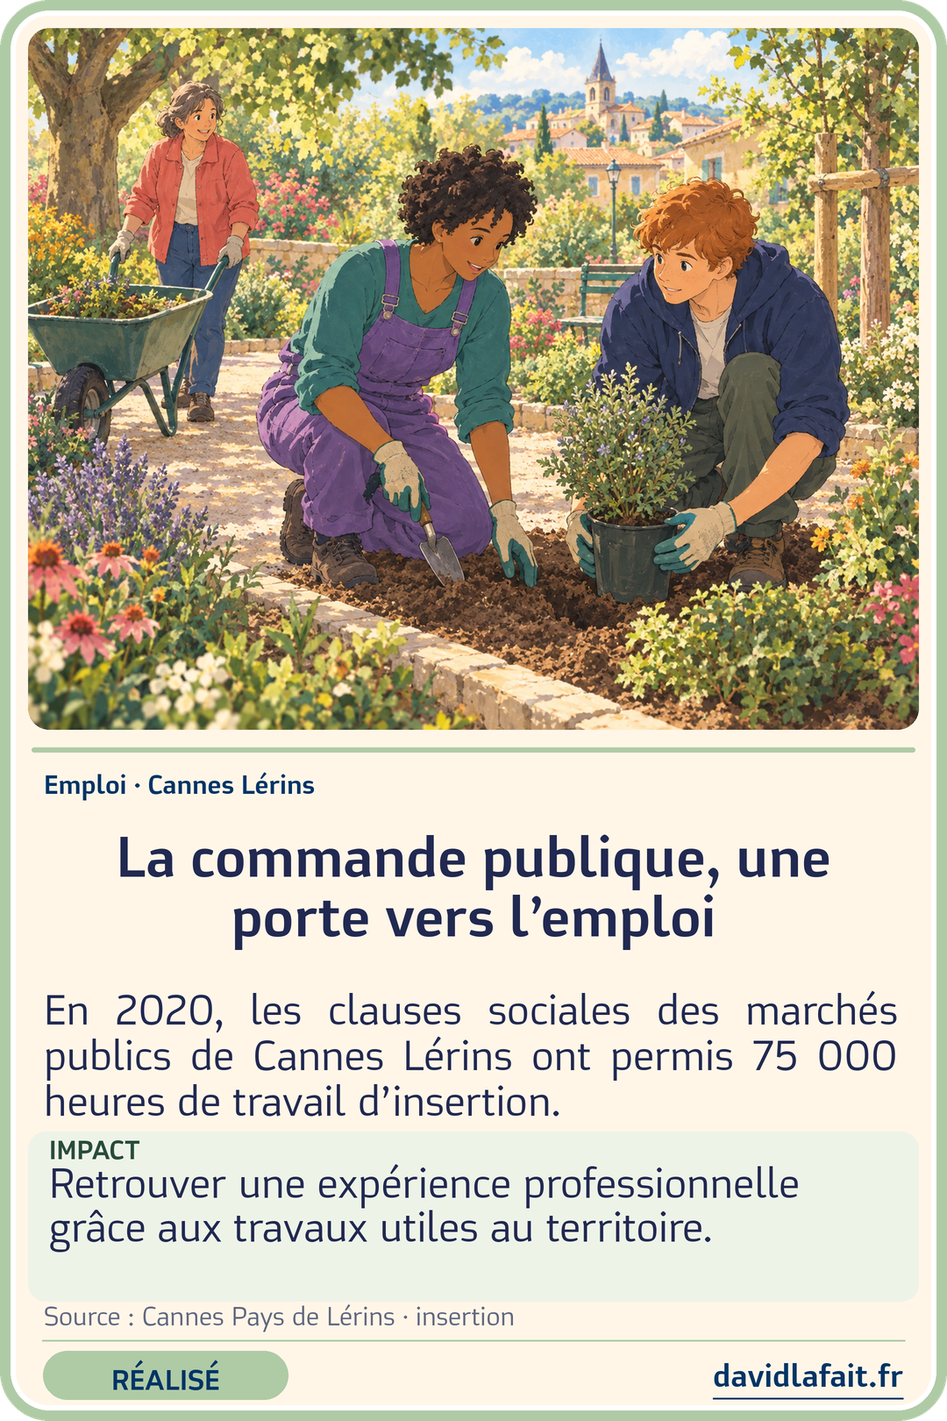
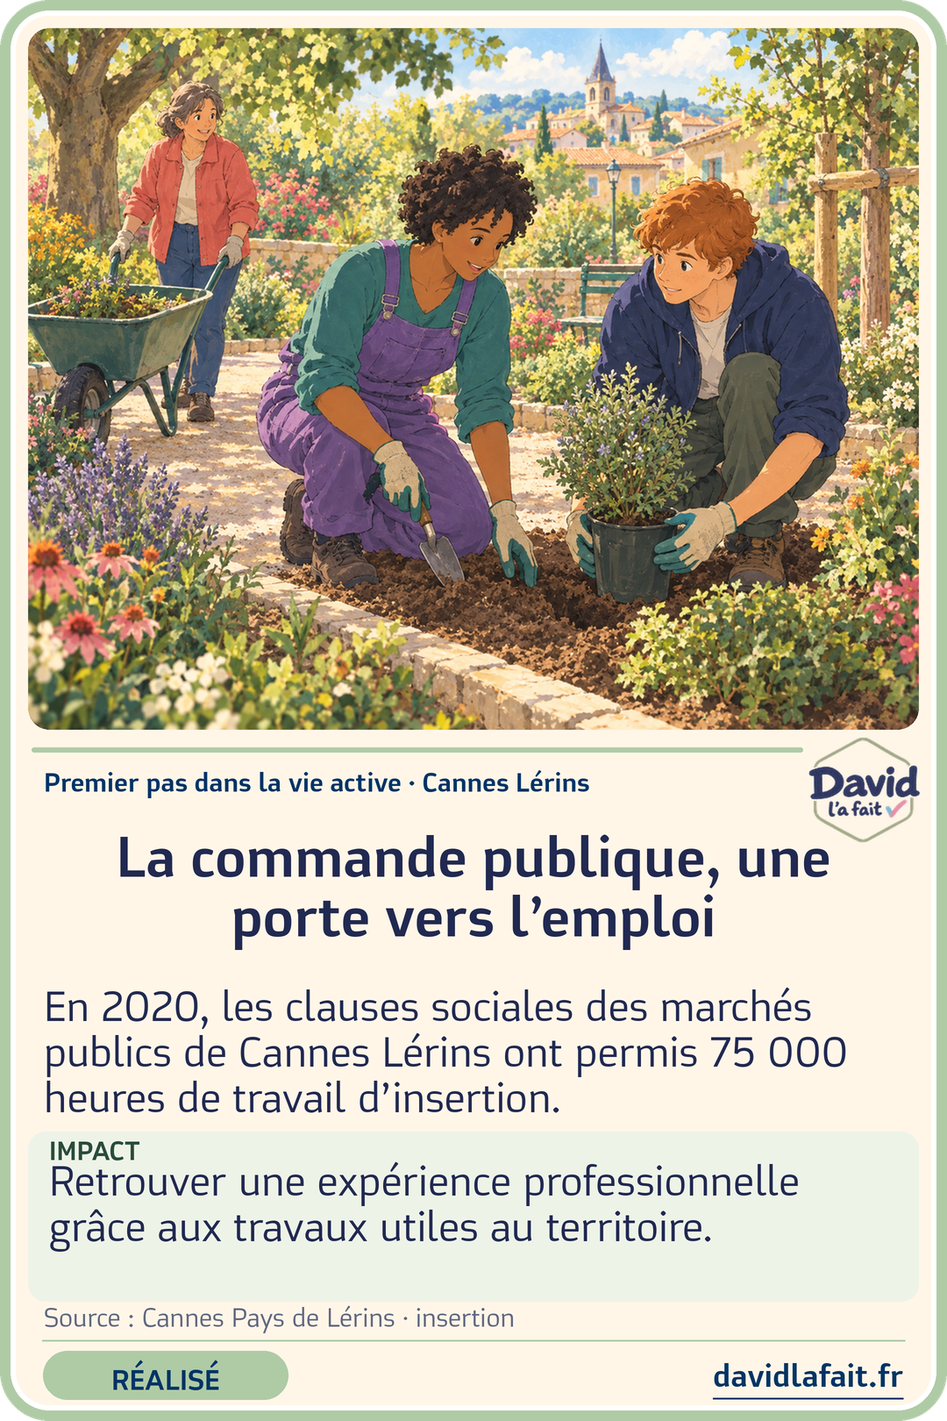
Thématique Premier pas dans la vie active : 7 cartes, vignette, révision 20261122-premierpas

diff --git a/thematiques/premier-pas-vie-active.html b/thematiques/premier-pas-vie-active.html
@@ -1,0 +1,53 @@
+<!doctype html>
+<html lang="fr">
+<head>
+  <meta charset="utf-8">
+  <meta name="viewport" content="width=device-width, initial-scale=1">
+  <meta name="theme-color" content="#f0dfdc">
+  <title>Premier pas dans la vie active | David l’a fait</title>
+  <meta name="description" content="Trouver sa place dans la vie active ne commence pas toujours par un entretien d’embauche. Renouer le contact, identifier ses compétences, construire…">
+  <link rel="canonical" href="https://www.davidlafait.fr/thematiques/premier-pas-vie-active.html">
+  <meta property="og:type" content="website">
+  <meta property="og:title" content="Premier pas dans la vie active | David l’a fait">
+  <meta property="og:description" content="Trouver sa place dans la vie active ne commence pas toujours par un entretien d’embauche. Renouer le contact, identifier ses compétences, construire…">
+  <meta property="og:url" content="https://www.davidlafait.fr/thematiques/premier-pas-vie-active.html">
+  <meta property="og:image" content="https://www.davidlafait.fr/assets/img/og/premier-pas-vie-active.jpg">
+  <meta property="og:image:width" content="1200"><meta property="og:image:height" content="630">
+  <meta name="twitter:card" content="summary_large_image">
+  <link rel="icon" href="../assets/img/favicon.ico" sizes="any"><link rel="icon" type="image/png" sizes="32x32" href="../assets/img/favicon-32.png"><link rel="apple-touch-icon" href="../assets/img/apple-touch-icon.png">
+  <link rel="stylesheet" href="../assets/css/base.css">
+  <link rel="stylesheet" href="../assets/css/style.css?v=20261122-premierpas">
+  <script>window.va = window.va || function () { (window.vaq = window.vaq || []).push(arguments); };</script>
+  <script defer src="/_vercel/insights/script.js"></script>
+  <script defer src="../assets/js/cartes.js?v=20261122-premierpas"></script>
+  <script type="application/ld+json">{"@context": "https://schema.org", "@type": "CollectionPage", "name": "Premier pas dans la vie active", "description": "Trouver sa place dans la vie active ne commence pas toujours par un entretien d’embauche. Renouer le contact, identifier ses compétences, construire un projet puis accéder à une formation ou à une expérience professionnelle : ces dispositifs répondent à différentes étapes du parcours, notamment pour les jeunes éloignés de l’emploi.", "url": "https://www.davidlafait.fr/thematiques/premier-pas-vie-active.html", "isPartOf": {"@type": "WebSite", "name": "David l’a fait", "url": "https://www.davidlafait.fr/"}}</script>
+</head>
+<body>
+  <a class="skip-link" href="#main">Aller au contenu</a>
+  <div class="site-shell">
+    <header class="header">
+      <div class="header-top">
+        <a class="wordmark" href="../index.html#/" aria-label="David l’a fait, accueil"><img src="../assets/img/logo-david-la-fait.png" width="104" height="104" alt=""><span class="wordmark-text"><span>David</span> l’a fait</span></a>
+        <nav aria-label="Navigation principale"><a href="../index.html#/" data-nav="home" aria-current="page">Les thématiques</a><a href="../index.html#/fiches" data-nav="fiches">Les cartes</a><a href="../index.html#/a-propos" data-nav="about">À propos</a></nav>
+      </div>
+      <p class="independence">Initiative indépendante · Non officielle</p>
+    </header>
+    <main id="main" tabindex="-1">
+      <a class="back" href="../index.html#/">← Retour aux thématiques</a>
+      <section class="theme-intro">
+        <div class="theme-intro-text"><p class="eyebrow">Thématique · 7 cartes</p><h1 class="page-title">Premier pas dans la vie active</h1><p class="fil">Trouver sa place dans la vie active ne commence pas toujours par un entretien d’embauche. Renouer le contact, identifier ses compétences, construire un projet puis accéder à une formation ou à une expérience professionnelle : ces dispositifs répondent à différentes étapes du parcours, notamment pour les jeunes éloignés de l’emploi.</p><p class="fil-note">Chaque carte renvoie à sa source.</p></div>
+        <img class="david" src="../assets/img/david-lisnard.webp" width="440" height="499" alt="David Lisnard">
+      </section>
+      <div class="filters status-filters static-filters" role="group" aria-label="Filtrer par statut"><button type="button" class="filter" data-filter="all" aria-pressed="true">Toutes <span class="count">· 7</span></button><button type="button" class="filter st realise" data-filter="realise" aria-pressed="false">RÉALISÉ <span class="count">· 5</span></button><button type="button" class="filter st en-cours" data-filter="en-cours" aria-pressed="false">EN COURS <span class="count">· 0</span></button><button type="button" class="filter st proposition" data-filter="proposition" aria-pressed="false">PROPOSITION <span class="count">· 2</span></button><span class="legend-caption">Un fait établi, une étape en cours ou une mesure envisagée.</span></div>
+      <div class="cards-grid"><article class="fiche" data-status="realise" aria-label="Du jeu vidéo à un projet professionnel"><figure class="card-visual"><img src="../assets/cards/david-la-fait-fiche-gaming-insertion.webp?v=20261122-premierpas" alt="Du jeu vidéo à un projet professionnel. Statut : RÉALISÉ." width="1080" height="1620" loading="eager"></figure><div class="card-actions"><a class="download" href="../assets/cards/david-la-fait-fiche-gaming-insertion.png?v=20261122-premierpas" target="_blank" rel="noopener" download="david-la-fait-fiche-gaming-insertion.png"><svg viewBox="0 0 24 24" fill="none" stroke="currentColor" stroke-width="1.8" aria-hidden="true"><path d="M12 3v12m-5-5 5 5 5-5M4 17v4h16v-4"/></svg>Télécharger</a><a class="source-link" href="https://cannespaysdelerins.fr/index.php/nouvelle-frayere/" target="_blank" rel="noopener noreferrer">Voir la source ↗</a></div></article><article class="fiche" data-status="realise" aria-label="Un coup de pouce pour le permis, contre un engagement utile"><figure class="card-visual"><img src="../assets/cards/david-la-fait-fiche-bourse-permis.webp?v=20261122-premierpas" alt="Un coup de pouce pour le permis, contre un engagement utile. Statut : RÉALISÉ." width="1080" height="1620" loading="eager"></figure><div class="card-actions"><a class="download" href="../assets/cards/david-la-fait-fiche-bourse-permis.png?v=20261122-premierpas" target="_blank" rel="noopener" download="david-la-fait-fiche-bourse-permis.png"><svg viewBox="0 0 24 24" fill="none" stroke="currentColor" stroke-width="1.8" aria-hidden="true"><path d="M12 3v12m-5-5 5 5 5-5M4 17v4h16v-4"/></svg>Télécharger</a><a class="source-link" href="https://www.unenouvelleenergie.fr/bourse-au-permis-un-soutien-precieux-pour-les-jeunes-cannois/" target="_blank" rel="noopener noreferrer">Voir la source ↗</a></div></article><article class="fiche" data-status="realise" aria-label="Un accompagnement qui débouche sur l’emploi"><figure class="card-visual"><img src="../assets/cards/david-la-fait-fiche-mission-locale-emploi.webp?v=20261122-premierpas" alt="Un accompagnement qui débouche sur l’emploi. Statut : RÉALISÉ." width="1080" height="1620" loading="lazy"></figure><div class="card-actions"><a class="download" href="../assets/cards/david-la-fait-fiche-mission-locale-emploi.png?v=20261122-premierpas" target="_blank" rel="noopener" download="david-la-fait-fiche-mission-locale-emploi.png"><svg viewBox="0 0 24 24" fill="none" stroke="currentColor" stroke-width="1.8" aria-hidden="true"><path d="M12 3v12m-5-5 5 5 5-5M4 17v4h16v-4"/></svg>Télécharger</a><a class="source-link" href="https://www.calameo.com/books/007975680d7f0e76871e0" target="_blank" rel="noopener noreferrer">Voir la source ↗</a></div></article><article class="fiche" data-status="realise" aria-label="Un salon pour décrocher son premier job d’été"><figure class="card-visual"><img src="../assets/cards/david-la-fait-fiche-jobs-ete.webp?v=20261122-premierpas" alt="Un salon pour décrocher son premier job d’été. Statut : RÉALISÉ." width="1080" height="1620" loading="lazy"></figure><div class="card-actions"><a class="download" href="../assets/cards/david-la-fait-fiche-jobs-ete.png?v=20261122-premierpas" target="_blank" rel="noopener" download="david-la-fait-fiche-jobs-ete.png"><svg viewBox="0 0 24 24" fill="none" stroke="currentColor" stroke-width="1.8" aria-hidden="true"><path d="M12 3v12m-5-5 5 5 5-5M4 17v4h16v-4"/></svg>Télécharger</a><a class="source-link" href="https://www.cannes.com/fr/index/cannes-soleil/grands-articles/n-270-mai-2026/jobs-d-ete-la-mairie-de-cannes-mobilisee-pour-l-emploi-des-jeunes.html" target="_blank" rel="noopener noreferrer">Voir la source ↗</a></div></article><article class="fiche" data-status="realise" aria-label="La commande publique, une porte vers l’emploi"><figure class="card-visual"><img src="../assets/cards/david-la-fait-fiche-clauses-insertion.webp?v=20261122-premierpas" alt="La commande publique, une porte vers l’emploi. Statut : RÉALISÉ." width="1080" height="1620" loading="lazy"></figure><div class="card-actions"><a class="download" href="../assets/cards/david-la-fait-fiche-clauses-insertion.png?v=20261122-premierpas" target="_blank" rel="noopener" download="david-la-fait-fiche-clauses-insertion.png"><svg viewBox="0 0 24 24" fill="none" stroke="currentColor" stroke-width="1.8" aria-hidden="true"><path d="M12 3v12m-5-5 5 5 5-5M4 17v4h16v-4"/></svg>Télécharger</a><a class="source-link" href="https://cannespaysdelerins.fr/index.php/insertion-professionnelle/" target="_blank" rel="noopener noreferrer">Voir la source ↗</a></div></article><article class="fiche" data-status="proposition" aria-label="Aider les entreprises à embaucher après le RSA"><figure class="card-visual"><img src="../assets/cards/david-la-fait-fiche-charges-patronales-negatives.webp?v=20261122-premierpas" alt="Aider les entreprises à embaucher après le RSA. Statut : PROPOSITION." width="1080" height="1620" loading="lazy"></figure><div class="card-actions"><a class="download" href="../assets/cards/david-la-fait-fiche-charges-patronales-negatives.png?v=20261122-premierpas" target="_blank" rel="noopener" download="david-la-fait-fiche-charges-patronales-negatives.png"><svg viewBox="0 0 24 24" fill="none" stroke="currentColor" stroke-width="1.8" aria-hidden="true"><path d="M12 3v12m-5-5 5 5 5-5M4 17v4h16v-4"/></svg>Télécharger</a><a class="source-link" href="https://www.unenouvelleenergie.fr/notre-programme/reussir-une-nouvelle-ambition-francaise/" target="_blank" rel="noopener noreferrer">Voir la source ↗</a></div></article><article class="fiche" data-status="proposition" aria-label="Que le travail rapporte toujours plus que l’assistance"><figure class="card-visual"><img src="../assets/cards/david-la-fait-fiche-ecart-500-euros.webp?v=20261122-premierpas" alt="Que le travail rapporte toujours plus que l’assistance. Statut : PROPOSITION." width="1080" height="1620" loading="lazy"></figure><div class="card-actions"><a class="download" href="../assets/cards/david-la-fait-fiche-ecart-500-euros.png?v=20261122-premierpas" target="_blank" rel="noopener" download="david-la-fait-fiche-ecart-500-euros.png"><svg viewBox="0 0 24 24" fill="none" stroke="currentColor" stroke-width="1.8" aria-hidden="true"><path d="M12 3v12m-5-5 5 5 5-5M4 17v4h16v-4"/></svg>Télécharger</a><a class="source-link" href="https://www.youtube.com/watch?v=SdILU6uwqTs&amp;t=1605s" target="_blank" rel="noopener noreferrer">Voir la source ↗</a></div></article></div>
+      <details class="cards-texts"><summary>Lire le texte des cartes</summary><section class="card-text"><p class="card-tag"><span class="badge realise">RÉALISÉ</span> Premier pas dans la vie active · Cannes La Bocca</p><h3>Du jeu vidéo à un projet professionnel</h3><p>À La Frayère, la Gaming House de l’insertion accompagne les 16–25 ans vers une formation ou un emploi depuis septembre 2025.</p><p><strong>Impact :</strong> Partir d’un centre d’intérêt pour identifier des compétences.</p><p class="card-source">Source : <a href="https://cannespaysdelerins.fr/index.php/nouvelle-frayere/" target="_blank" rel="noopener noreferrer">Cannes Pays de Lérins · La Frayère ↗</a></p></section><section class="card-text"><p class="card-tag"><span class="badge realise">RÉALISÉ</span> Premier pas dans la vie active · Cannes</p><h3>Un coup de pouce pour le permis, contre un engagement utile</h3><p>À Cannes, les 17-25 ans peuvent recevoir jusqu’à 900 € pour leur permis, en échange de 70 heures d’intérêt général.</p><p><strong>Impact :</strong> Depuis 2015, 149 jeunes ont gagné en mobilité pour accéder plus facilement à une formation ou à un emploi.</p><p class="card-source">Source : <a href="https://www.unenouvelleenergie.fr/bourse-au-permis-un-soutien-precieux-pour-les-jeunes-cannois/" target="_blank" rel="noopener noreferrer">Nouvelle Énergie · Bourse au permis ↗</a></p></section><section class="card-text"><p class="card-tag"><span class="badge realise">RÉALISÉ</span> Premier pas dans la vie active · Cannes Pays de Lérins</p><h3>Un accompagnement qui débouche sur l’emploi</h3><p>En 2024, la Mission locale Cannes Pays de Lérins a accompagné 1 786 jeunes, dont 375 entrés en emploi.</p><p><strong>Impact :</strong> Transformer un projet professionnel en premières expériences concrètes.</p><p class="card-source">Source : <a href="https://www.calameo.com/books/007975680d7f0e76871e0" target="_blank" rel="noopener noreferrer">Mission locale · rapport 2024 ↗</a></p></section><section class="card-text"><p class="card-tag"><span class="badge realise">RÉALISÉ</span> Premier pas dans la vie active · Cannes</p><h3>Un salon pour décrocher son premier job d’été</h3><p>À Cannes, le salon 1 000 jobs d’été réunit jeunes et recruteurs, avec des entretiens d’embauche sur place.</p><p><strong>Impact :</strong> En 2026, 1 037 visiteurs ont pu rencontrer les employeurs de 37 stands en une seule journée.</p><p class="card-source">Source : <a href="https://www.cannes.com/fr/index/cannes-soleil/grands-articles/n-270-mai-2026/jobs-d-ete-la-mairie-de-cannes-mobilisee-pour-l-emploi-des-jeunes.html" target="_blank" rel="noopener noreferrer">Cannes Soleil · mai 2026 ↗</a></p></section><section class="card-text"><p class="card-tag"><span class="badge realise">RÉALISÉ</span> Premier pas dans la vie active · Cannes Lérins</p><h3>La commande publique, une porte vers l’emploi</h3><p>En 2020, les clauses sociales des marchés publics de Cannes Lérins ont permis 75 000 heures de travail d’insertion.</p><p><strong>Impact :</strong> Retrouver une expérience professionnelle grâce aux travaux utiles au territoire.</p><p class="card-source">Source : <a href="https://cannespaysdelerins.fr/index.php/insertion-professionnelle/" target="_blank" rel="noopener noreferrer">Cannes Pays de Lérins · insertion ↗</a></p></section><section class="card-text"><p class="card-tag"><span class="badge proposition">PROPOSITION</span> CE QU’IL PROPOSE · Premier pas dans la vie active · France</p><h3>Aider les entreprises à embaucher après le RSA</h3><p>David Lisnard propose des charges patronales négatives pour l’embauche de personnes au RSA depuis plus de deux ans.</p><p><strong>Impact :</strong> Au lieu de payer des charges, l’employeur sera aidé pour redonner sa chance à une personne éloignée de l’emploi.</p><p class="card-source">Source : <a href="https://www.unenouvelleenergie.fr/notre-programme/reussir-une-nouvelle-ambition-francaise/" target="_blank" rel="noopener noreferrer">Nouvelle Énergie · Réussir une nouvelle ambition française ↗</a></p></section><section class="card-text"><p class="card-tag"><span class="badge proposition">PROPOSITION</span> CE QU’IL PROPOSE · Premier pas dans la vie active · France</p><h3>Que le travail rapporte toujours plus que l’assistance</h3><p>David Lisnard propose une allocation sociale unique, avec au moins 500 € d’écart entre travailler et ne pas travailler.</p><p><strong>Impact :</strong> Cet écart rendra la reprise d’un emploi à temps plein plus intéressante que le maintien dans les aides.</p><p class="card-source">Source : <a href="https://www.youtube.com/watch?v=SdILU6uwqTs&amp;t=1605s" target="_blank" rel="noopener noreferrer">Le Crayon · YouTube · 11 octobre 2026 (26:45) ↗</a></p></section></details>
+      <a class="back back-bottom" href="../index.html#/">← Retour aux thématiques</a>
+    </main>
+    <footer class="footer">
+      <a class="footer-brand" href="../index.html#/"><span>David</span> l’a fait</a>
+      <div><p>Initiative indépendante · Non officielle. Illustrations non documentaires. <a href="../index.html#/a-propos">Notre démarche</a></p><p><a class="lien-ne" href="https://soutenir.unenouvelleenergie.fr/p/HSQY26M9" target="_blank" rel="noopener">En savoir plus : Nouvelle Énergie ↗</a></p></div>
+      <a href="../index.html#/fiches">Toutes les cartes <span aria-hidden="true">↗</span></a>
+    </footer>
+  </div>
+</body>
+</html>

diff --git a/assets/js/data.js b/assets/js/data.js
@@ -60,6 +60,12 @@ window.__SITE__ = {
    "name": "Innovation, spatial et souveraineté",
    "image": "assets/img/themes/innovation-spatial-souverainete.webp",
    "fil": "La souveraineté d’un pays se joue dans sa capacité à former ses jeunes et à ouvrir les métiers d’avenir à tous les talents. À Cannes, le Campus du spatial, de l’IA et du quantique — marrainé par Candace Johnson — et la chaire universitaire « Défis et souveraineté du spatial » réunissent étudiants, chercheurs et industriels pour préparer les compétences de demain. À l’échelle nationale, alléger les normes, concentrer l’effort sur l’IA, le quantique et le spatial, et ouvrir davantage les filières d’ingénieurs aux jeunes, et notamment aux jeunes femmes, renforceront l’excellence et l’indépendance de la France."
+  },
+  {
+   "slug": "premier-pas-vie-active",
+   "name": "Premier pas dans la vie active",
+   "image": "assets/img/themes/premier-pas-vie-active.webp",
+   "fil": "Trouver sa place dans la vie active ne commence pas toujours par un entretien d’embauche. Renouer le contact, identifier ses compétences, construire un projet puis accéder à une formation ou à une expérience professionnelle : ces dispositifs répondent à différentes étapes du parcours, notamment pour les jeunes éloignés de l’emploi."
   }
  ],
  "cards": [
@@ -947,6 +953,111 @@ window.__SITE__ = {
     "url": "https://www.lejdd.fr/economie/un-sursaut-francais-est-necessaire-contre-la-penurie-dingenieurs-144409"
    },
    "file": "david-la-fait-fiche-former-ingenieures"
+  },
+  {
+   "id": "gaming-insertion",
+   "theme": "premier-pas-vie-active",
+   "status": "realise",
+   "statusText": "RÉALISÉ",
+   "tag": "Premier pas dans la vie active · Cannes La Bocca",
+   "title": "Du jeu vidéo à un projet professionnel",
+   "body": "À La Frayère, la Gaming House de l’insertion accompagne les 16–25 ans vers une formation ou un emploi depuis septembre 2025.",
+   "impact": "Partir d’un centre d’intérêt pour identifier des compétences.",
+   "source": {
+    "name": "Cannes Pays de Lérins · La Frayère",
+    "url": "https://cannespaysdelerins.fr/index.php/nouvelle-frayere/"
+   },
+   "file": "david-la-fait-fiche-gaming-insertion"
+  },
+  {
+   "id": "bourse-permis",
+   "theme": "premier-pas-vie-active",
+   "status": "realise",
+   "statusText": "RÉALISÉ",
+   "tag": "Premier pas dans la vie active · Cannes",
+   "title": "Un coup de pouce pour le permis, contre un engagement utile",
+   "body": "À Cannes, les 17-25 ans peuvent recevoir jusqu’à 900 € pour leur permis, en échange de 70 heures d’intérêt général.",
+   "impact": "Depuis 2015, 149 jeunes ont gagné en mobilité pour accéder plus facilement à une formation ou à un emploi.",
+   "source": {
+    "name": "Nouvelle Énergie · Bourse au permis",
+    "url": "https://www.unenouvelleenergie.fr/bourse-au-permis-un-soutien-precieux-pour-les-jeunes-cannois/"
+   },
+   "file": "david-la-fait-fiche-bourse-permis"
+  },
+  {
+   "id": "mission-locale-emploi",
+   "theme": "premier-pas-vie-active",
+   "status": "realise",
+   "statusText": "RÉALISÉ",
+   "tag": "Premier pas dans la vie active · Cannes Pays de Lérins",
+   "title": "Un accompagnement qui débouche sur l’emploi",
+   "body": "En 2024, la Mission locale Cannes Pays de Lérins a accompagné 1 786 jeunes, dont 375 entrés en emploi.",
+   "impact": "Transformer un projet professionnel en premières expériences concrètes.",
+   "source": {
+    "name": "Mission locale · rapport 2024",
+    "url": "https://www.calameo.com/books/007975680d7f0e76871e0"
+   },
+   "file": "david-la-fait-fiche-mission-locale-emploi"
+  },
+  {
+   "id": "jobs-ete",
+   "theme": "premier-pas-vie-active",
+   "status": "realise",
+   "statusText": "RÉALISÉ",
+   "tag": "Premier pas dans la vie active · Cannes",
+   "title": "Un salon pour décrocher son premier job d’été",
+   "body": "À Cannes, le salon 1 000 jobs d’été réunit jeunes et recruteurs, avec des entretiens d’embauche sur place.",
+   "impact": "En 2026, 1 037 visiteurs ont pu rencontrer les employeurs de 37 stands en une seule journée.",
+   "source": {
+    "name": "Cannes Soleil · mai 2026",
+    "url": "https://www.cannes.com/fr/index/cannes-soleil/grands-articles/n-270-mai-2026/jobs-d-ete-la-mairie-de-cannes-mobilisee-pour-l-emploi-des-jeunes.html"
+   },
+   "file": "david-la-fait-fiche-jobs-ete"
+  },
+  {
+   "id": "clauses-insertion",
+   "theme": "premier-pas-vie-active",
+   "status": "realise",
+   "statusText": "RÉALISÉ",
+   "tag": "Premier pas dans la vie active · Cannes Lérins",
+   "title": "La commande publique, une porte vers l’emploi",
+   "body": "En 2020, les clauses sociales des marchés publics de Cannes Lérins ont permis 75 000 heures de travail d’insertion.",
+   "impact": "Retrouver une expérience professionnelle grâce aux travaux utiles au territoire.",
+   "source": {
+    "name": "Cannes Pays de Lérins · insertion",
+    "url": "https://cannespaysdelerins.fr/index.php/insertion-professionnelle/"
+   },
+   "file": "david-la-fait-fiche-clauses-insertion"
+  },
+  {
+   "id": "charges-patronales-negatives",
+   "theme": "premier-pas-vie-active",
+   "status": "proposition",
+   "statusText": "PROPOSITION",
+   "tag": "CE QU’IL PROPOSE · Premier pas dans la vie active · France",
+   "title": "Aider les entreprises à embaucher après le RSA",
+   "body": "David Lisnard propose des charges patronales négatives pour l’embauche de personnes au RSA depuis plus de deux ans.",
+   "impact": "Au lieu de payer des charges, l’employeur sera aidé pour redonner sa chance à une personne éloignée de l’emploi.",
+   "source": {
+    "name": "Nouvelle Énergie · Réussir une nouvelle ambition française",
+    "url": "https://www.unenouvelleenergie.fr/notre-programme/reussir-une-nouvelle-ambition-francaise/"
+   },
+   "file": "david-la-fait-fiche-charges-patronales-negatives"
+  },
+  {
+   "id": "ecart-500-euros",
+   "theme": "premier-pas-vie-active",
+   "status": "proposition",
+   "statusText": "PROPOSITION",
+   "tag": "CE QU’IL PROPOSE · Premier pas dans la vie active · France",
+   "title": "Que le travail rapporte toujours plus que l’assistance",
+   "body": "David Lisnard propose une allocation sociale unique, avec au moins 500 € d’écart entre travailler et ne pas travailler.",
+   "impact": "Cet écart rendra la reprise d’un emploi à temps plein plus intéressante que le maintien dans les aides.",
+   "source": {
+    "name": "Le Crayon · YouTube · 11 octobre 2026 (26:45)",
+    "url": "https://www.youtube.com/watch?v=SdILU6uwqTs&t=1605s"
+   },
+   "file": "david-la-fait-fiche-ecart-500-euros"
   }
  ],
  "site": {

diff --git a/index.html b/index.html
@@ -17,12 +17,12 @@
   <link rel="preload" href="assets/fonts/tubqal-regular.otf" as="font" type="font/otf" crossorigin>
   <link rel="icon" href="assets/img/favicon.ico" sizes="any"><link rel="icon" type="image/png" sizes="32x32" href="assets/img/favicon-32.png"><link rel="apple-touch-icon" href="assets/img/apple-touch-icon.png">
   <link rel="stylesheet" href="assets/css/base.css">
-  <link rel="stylesheet" href="assets/css/style.css?v=20261121-coins">
+  <link rel="stylesheet" href="assets/css/style.css?v=20261122-premierpas">
   <script>window.va = window.va || function () { (window.vaq = window.vaq || []).push(arguments); };</script>
   <script defer src="/_vercel/insights/script.js"></script>
-  <script defer src="assets/js/data.js?v=20261121-coins"></script>
-  <script defer src="assets/js/app.js?v=20261121-coins"></script>
-  <script defer src="assets/js/cartes.js?v=20261121-coins"></script>
+  <script defer src="assets/js/data.js?v=20261122-premierpas"></script>
+  <script defer src="assets/js/app.js?v=20261122-premierpas"></script>
+  <script defer src="assets/js/cartes.js?v=20261122-premierpas"></script>
 </head>
 <body>
   <a class="skip-link" href="#main">Aller au contenu</a>

diff --git a/assets/js/app.js b/assets/js/app.js
@@ -1,7 +1,7 @@
 (() => {
   "use strict";
   /* Données : assets/js/data.js, généré par build.py à partir de site.json. */
-  const CARD_REVISION = "20261121-coins";
+  const CARD_REVISION = "20261122-premierpas";
   const main = document.querySelector("main");
   const statusNode = document.getElementById("announcement");
   const SITE = window.__SITE__;
